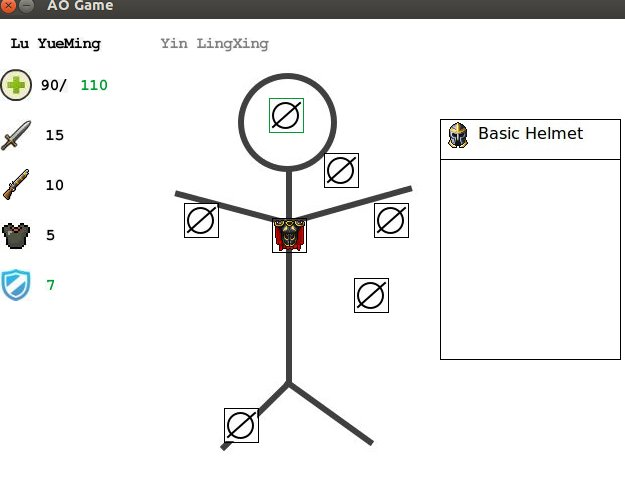
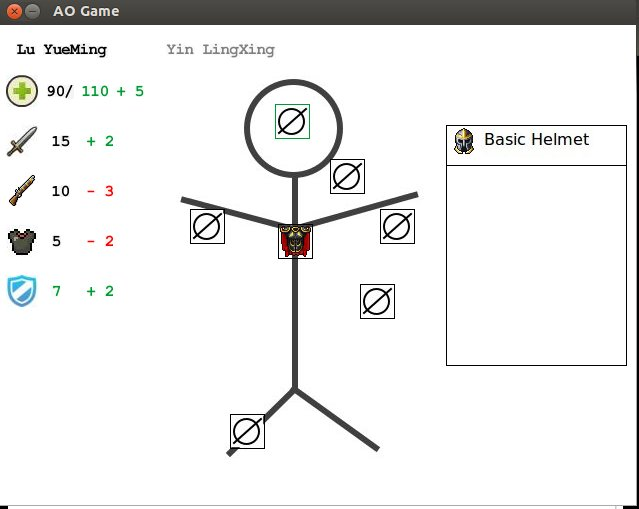
Initial commit

diff --git a/AOGameDev/src/com/zimu/ao/board/EquipmentBoard.java b/AOGameDev/src/com/zimu/ao/board/EquipmentBoard.java
@@ -33,6 +33,7 @@ public class EquipmentBoard extends RenderableScreen {
 	private int state;
 	private int stateCursor;
 	private int charCursor;
+	private int equipCursor;
 	
 	public EquipmentBoard(Player player) {
 		this.player = player;
@@ -62,13 +63,13 @@ public class EquipmentBoard extends RenderableScreen {
 				if (input.isKeyPressed(Input.KEY_TAB)) {
 					if (charCursor < player.getCharacters().size() - 1) charCursor++;
 					else charCursor = 0;
-					cursor = -1;
+					equipCursor = -1;
 				} else if (input.isKeyPressed(Input.KEY_LEFT) || input.isKeyPressed(Input.KEY_UP)) {
-					if (cursor > Equipment.HELMET) cursor--;
+					if (equipCursor > Equipment.HELMET) equipCursor--;
 				} else if (input.isKeyPressed(Input.KEY_RIGHT) || input.isKeyPressed(Input.KEY_DOWN)) {
-					if (cursor < Equipment.NULL - 1) cursor++;
+					if (equipCursor < Equipment.NULL - 1) equipCursor++;
 				} else if (input.isKeyPressed(Input.KEY_SPACE)) {
-					if (cursor != -1) {
+					if (equipCursor != -1) {
 						state = SLOT;
 						stateCursor = 0;
 					}
@@ -87,9 +88,9 @@ public class EquipmentBoard extends RenderableScreen {
 					AbstractChar c = player.getCharacters().get(charCursor);
 					if (stateCursor == 0) {
 						state = ITEM;
-						equipments = player.getEquipments(cursor);
+						equipments = player.getEquipments(equipCursor);
 					} else if (stateCursor == 1) {
-						player.unequip(cursor, c);
+						player.unequip(equipCursor, c);
 						state = NORMAL;
 						stateCursor = 0;
 					}
@@ -109,7 +110,7 @@ public class EquipmentBoard extends RenderableScreen {
 				} else if (input.isKeyPressed(Input.KEY_SPACE)) {
 					if (equipments.size() == 0) return true;
 					player.equip(equipments.get(stateCursor), player.getCharacters().get(charCursor));
-					equipments = player.getEquipments(cursor);
+					equipments = player.getEquipments(equipCursor);
 					stateCursor = 0;
 					state = NORMAL;
 				}
@@ -158,7 +159,11 @@ public class EquipmentBoard extends RenderableScreen {
 		int secondaryAttackDiff = c.getSecondaryAttack() - c.getOrgSecondaryAttack();
 		int primaryDefenceDiff = c.getPrimaryDefence() - c.getOrgPrimaryDefence();
 		int armorDefenceDiff = c.getArmorDefence() - c.getOrgArmorDefence();
-		
+		drawStatus(g, c.getHealth(), c.getOrgHealth(), x + 90, y + 57);
+		drawStatus(g, c.getPrimaryAttack(), c.getOrgPrimaryAttack(), x + 55, y + 107);
+		drawStatus(g, c.getSecondaryAttack(), c.getOrgSecondaryAttack(), x + 55, y + 157);
+		drawStatus(g, c.getPrimaryDefence(), c.getOrgPrimaryDefence(), x + 55, y + 207);
+		drawStatus(g, c.getArmorDefence(), c.getOrgArmorDefence(), x + 55, y + 257);
 		if (healthDiff < 0) g.setColor(Color.red);
 		else if (healthDiff > 0) g.setColor(green);
 		else g.setColor(Color.black);
@@ -191,13 +196,13 @@ public class EquipmentBoard extends RenderableScreen {
 		for (Integer type : keys) {
 			Point point = equipmentSlots.get(type);
 			g.drawImage(equipments.get(type).getImage(), x + point.x, y + point.y);
-			if (cursor == type) g.setColor(green);
+			if (equipCursor == type) g.setColor(green);
 			else g.setColor(Color.black);
 			g.drawRect(x + point.x - 1, y + point.y - 1, 34, 34);
 		}
 		if (state == SLOT) {
 			g.setColor(Color.white);
-			Point point = equipmentSlots.get(cursor);
+			Point point = equipmentSlots.get(equipCursor);
 			g.fillRect(point.x + 40, point.y + 35, 90, 40);
 			g.setColor(Color.black);
 			g.drawRect(point.x + 40, point.y + 35, 80, 40);
@@ -215,24 +220,94 @@ public class EquipmentBoard extends RenderableScreen {
 		g.drawRect(x + 450, y + 100, 180, 240);
 		for (int i = topCursor, j = 0; j < ITEMS_PER_PAGE + 1; i++, j++) {
 			if (i >= equipments.size()) break;
-			Equipment eq = null;
+			Equipment e = null;
 			try {
-				eq = equipments.get(i);
-			} catch (Exception e) {
+				e = equipments.get(i);
+			} catch (Exception exc) {
 				break;
 			}
-			if (eq == null) break;
-			g.drawImage(eq.getImage(), x + 452, y + 100 + (j * 40));
-			g.drawImage(eq.getLabel(), x + 485, y + 100 + (j * 40));
+			if (e == null) break;
+			g.drawImage(e.getImage(), x + 452, y + 100 + (j * 40));
+			g.drawImage(e.getLabel(), x + 485, y + 100 + (j * 40));
 			if (stateCursor == i) {
 				g.drawRect(x + 450, y + 100 + (j * 55), 180, 40);
+				
+				Equipment curr_e = player.getCharacters().get(charCursor).getEquipments().get(equipCursor);
+				int healthDiff = e.getHealth() - curr_e.getHealth();
+				int primaryAttackDiff = e.getPrimaryAttack() - curr_e.getPrimaryAttack();
+				int secondaryAttackDiff = e.getSecondaryAttack() - curr_e.getSecondaryAttack();
+				int primaryDefenceDiff = e.getPrimaryDefence() - curr_e.getPrimaryDefence();
+				int armorDefenceDiff = e.getArmorDefence() - curr_e.getArmorDefence();
+
+				//g.drawImage(c.getHealthImage(), x + 10, y + 50);
+				//g.drawImage(c.getPrimaryAttackImage(), x + 10, y + 100);
+				//g.drawImage(c.getSecondaryAttackImage(), x + 10, y + 150);
+				//g.drawImage(c.getPrimaryDefenceImage(), x + 10, y + 200);
+				//g.drawImage(c.getArmorDefenceImage(), x + 10, y + 250);
+				if (healthDiff > 0) {
+					g.setColor(green);
+					g.drawString("+  " + Math.abs(healthDiff), x + 80, y + 50);
+				} else if (healthDiff < 0) {
+					g.setColor(Color.red);
+					g.drawString("-  " + Math.abs(healthDiff), x + 80, y + 50);
+				}
+				if (healthDiff > 0) {
+					g.setColor(green);
+					g.drawString("+  " + Math.abs(healthDiff), x + 80, y + 50);
+				} else if (healthDiff < 0) {
+					g.setColor(Color.red);
+					g.drawString("-  " + Math.abs(healthDiff), x + 80, y + 50);
+				}
+				if (healthDiff > 0) {
+					g.setColor(green);
+					g.drawString("+  " + Math.abs(healthDiff), x + 80, y + 50);
+				} else if (healthDiff < 0) {
+					g.setColor(Color.red);
+					g.drawString("-  " + Math.abs(healthDiff), x + 80, y + 50);
+				}
+				if (healthDiff > 0) {
+					g.setColor(green);
+					g.drawString("+  " + Math.abs(healthDiff), x + 80, y + 50);
+				} else if (healthDiff < 0) {
+					g.setColor(Color.red);
+					g.drawString("-  " + Math.abs(healthDiff), x + 80, y + 50);
+				}
+				if (healthDiff > 0) {
+					g.setColor(green);
+					g.drawString("+  " + Math.abs(healthDiff), x + 80, y + 50);
+				} else if (healthDiff < 0) {
+					g.setColor(Color.red);
+					g.drawString("-  " + Math.abs(healthDiff), x + 80, y + 50);
+				}
 			}
+		}
+	}
+	
+	private void drawStatus(Graphics g, int x, int y, int curr, int orig) {
+		int diff = curr - orig;
+		if (diff > 0)
+			g.setColor(green);
+		else if (diff < 0)
+			g.setColor(Color.red);
+		else
+			g.setColor(Color.black);
+		g.drawString(String.valueOf(curr), x, y);
+	}
+	
+	private void drawDifference(Graphics g, int x, int y, int minuend, int substrahend) {
+		int diff = minuend - substrahend;
+		if (diff > 0) {
+			g.setColor(green);
+			g.drawString("+ " + diff, x, y);
+		} else if (diff < 0) {
+			g.setColor(Color.red);
+			g.drawString("- " + diff, x, y);
 		}
 	}
 	
 	@Override
 	protected void init() {
-		cursor = -1;
+		equipCursor = -1;
 		state = NORMAL;
 	}
 
